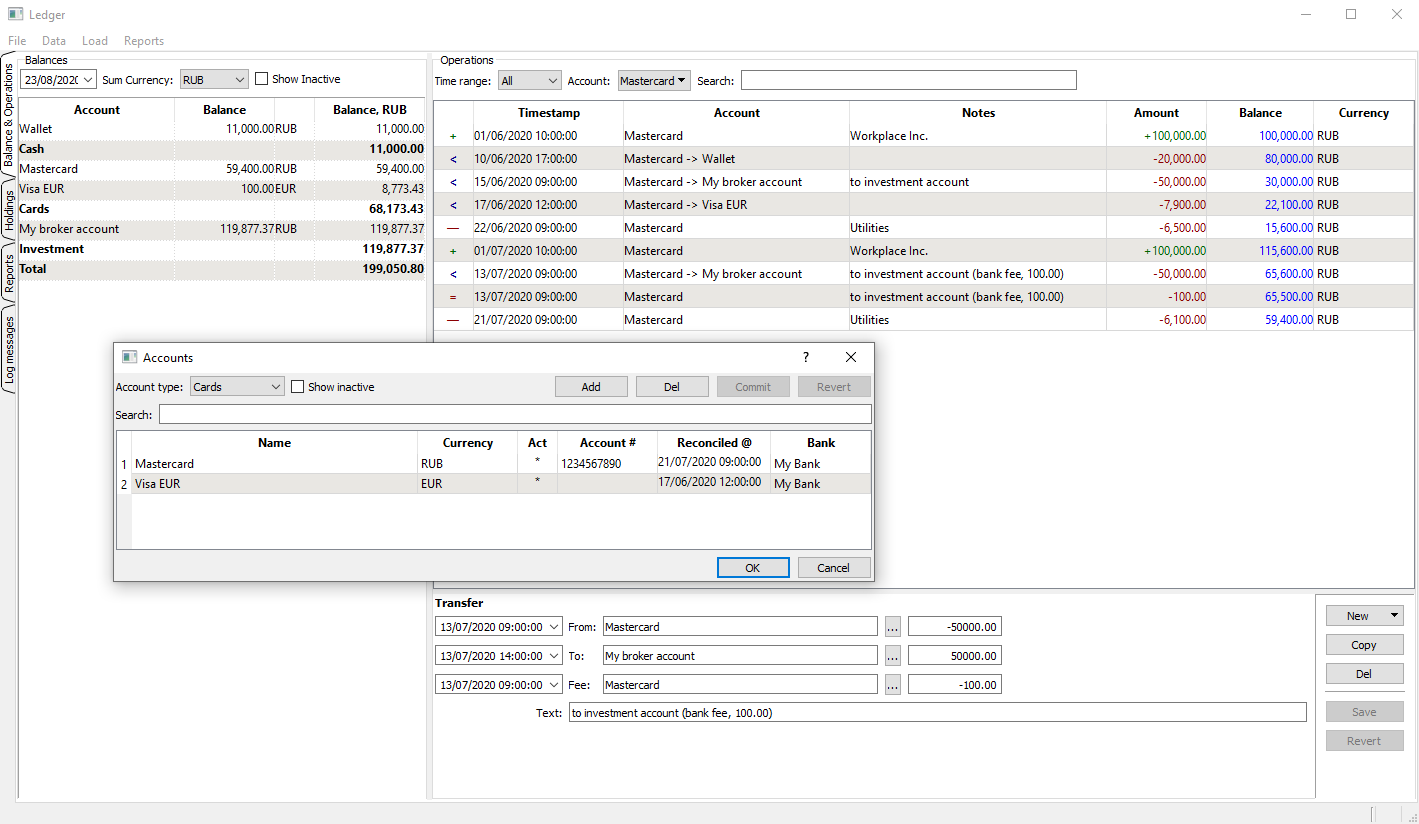
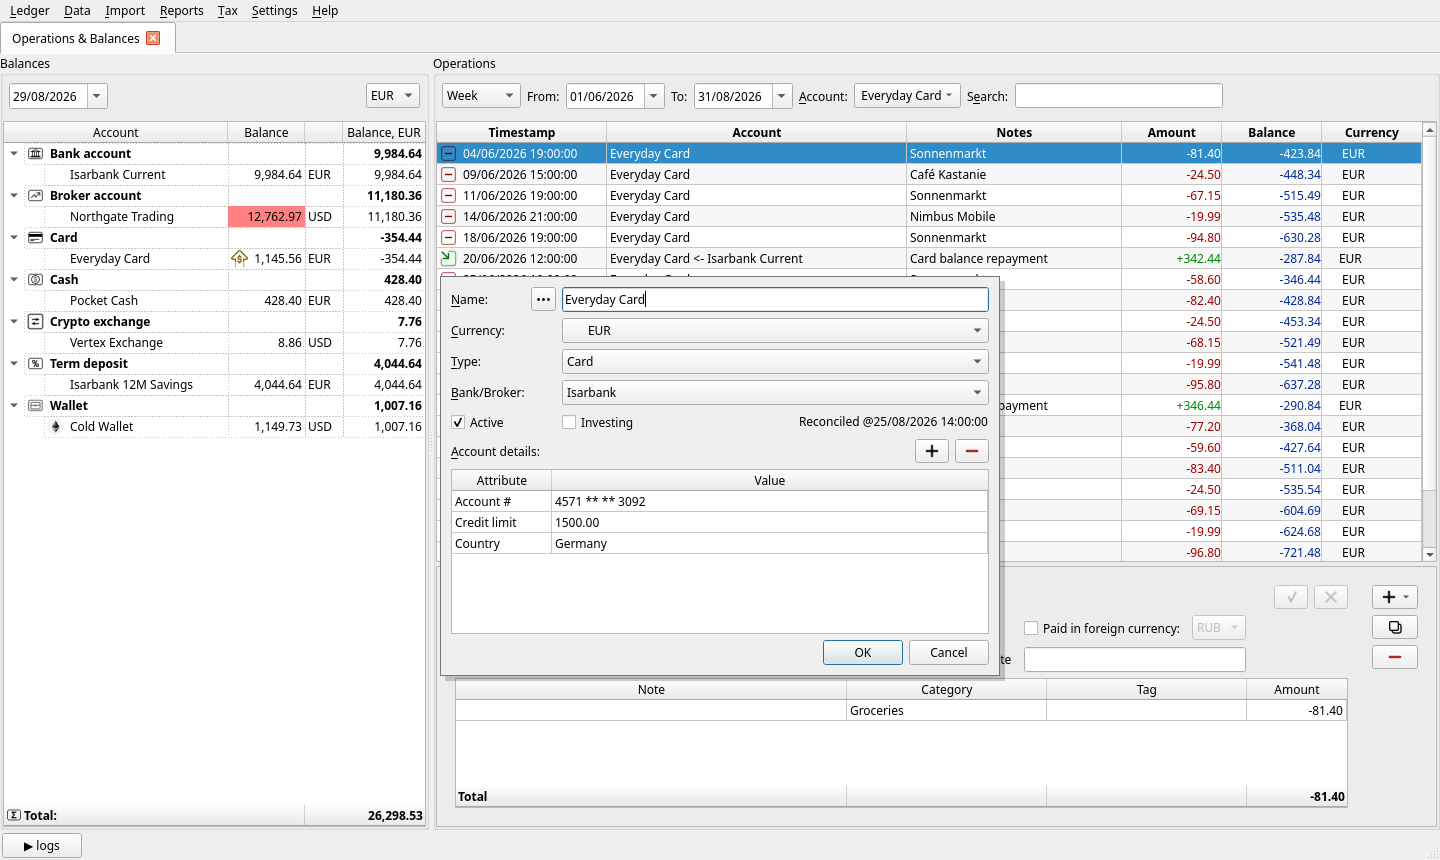
README screenshots were updated to match actual version

Changed region(s): [[0.0, 0.0, 1.0, 1.0]]

diff --git a/docs/README.md b/docs/README.md
@@ -65,30 +65,26 @@ Step-by-step example (in russian language) of Russian tax report preparation for
 Use contacts from beginning of this page if you need support regarding statements or reports.
 
 ## Screenshots
-Qt have a better look on Linux out of the box. Here is main program window:  
-![Main Window on Linux](https://github.com/titov-vv/jal/blob/master/docs/img/main_linux.png?raw=true)
+All pictures below show an invented demo ledger, not real data. Here is the main program window:  
+![Main Window](https://github.com/titov-vv/jal/blob/master/docs/manual/img/main_window.png?raw=true)
 
-The same window on Windows - the same functions with a bit different look:  
-![Main Window on Windows](https://github.com/titov-vv/jal/blob/master/docs/img/main_windows.png?raw=true)
-
-Accounts are be arranged in groups (Cash, Cards, Investments, etc), each account holds one currency.
-Below is a view of main window where one account is chosen ('Mastercard') and account select/edit window is opened on top:  
+Accounts are arranged in groups (Cash, Card, Bank, Broker, Wallet, etc), each account holds one currency.
+Below is a view of main window where one account is chosen ('Everyday Card') and account select/edit window is opened on top:  
 ![One Account](https://github.com/titov-vv/jal/blob/master/docs/img/one_account_view.png?raw=true)
 
 Example of investment account view with Buy, Sell and Dividend operations recorded (there is an asset select/edit window on top):  
 ![Investment Account](https://github.com/titov-vv/jal/blob/master/docs/img/stocks_and_investment_account.png?raw=true)
 
-'Holdings' tab contains portfolio overview (You display account and portfolio balances for any date).
-Holdings are grouped by currencies and then by accounts.  
-![Holdings](https://github.com/titov-vv/jal/blob/master/docs/img/investment_portfolio_holdings.png?raw=true)
+The *Portfolio* report gives an overview of everything held on a given date, grouped by currency and then by account.  
+![Portfolio](https://github.com/titov-vv/jal/blob/master/docs/manual/img/report_portfolio.png?raw=true)
 
 Examples of reports are below:
 Monthly incomes/spendings *(categories hierarchy is supported with sub-totals calculation)*  
-![Income/Spending report](https://github.com/titov-vv/jal/blob/master/docs/img/report_income_spending.png?raw=true)
+![Income/Spending report](https://github.com/titov-vv/jal/blob/master/docs/manual/img/report_income_spending.png?raw=true)
 Profit/Loss for investment account *(Assets value to be fixed, Returns include dividends and other payments)*  
-![Profit/Loss report](https://github.com/titov-vv/jal/blob/master/docs/img/report_profit_loss.png?raw=true)
+![Profit/Loss report](https://github.com/titov-vv/jal/blob/master/docs/manual/img/report_profit_loss.png?raw=true)
 List of all closed deals for investment account  
-![Deals report](https://github.com/titov-vv/jal/blob/master/docs/img/report_deals.png?raw=true)
+![Deals report](https://github.com/titov-vv/jal/blob/master/docs/manual/img/report_deals.png?raw=true)
 
 ## 📞 Support, Feedback
 If you want to ask a question, report a bug, provide help or support an author - you may use email [jal@gmx.ru](mailto:jal@gmx.ru?subject=%5BJAL%5D%20Help) or [Telegram](https://t.me/jal_support) ([Issues](https://github.com/titov-vv/jal/issues) on GitHub are always welcome also).
